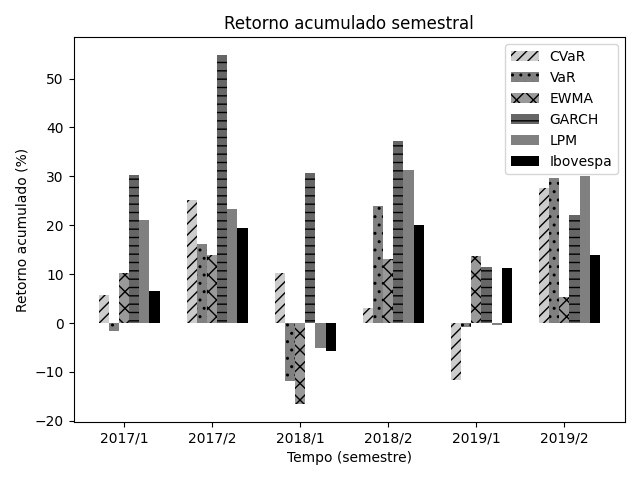
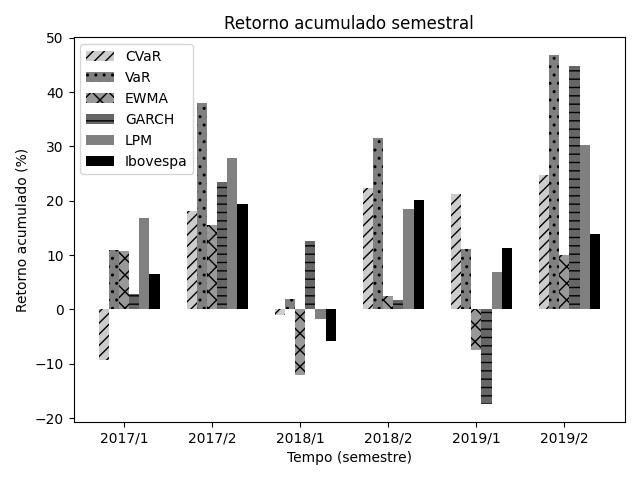
teste realizados

diff --git a/direto/nsga2.py b/direto/nsga2.py
@@ -86,6 +86,7 @@ def main():
             
             x_iteracao.sort()
             y_iteracao.sort()
+
             if primeira_execucao:
                 x_soma_execucoes = x_iteracao
                 y_soma_execucoes = y_iteracao
@@ -121,11 +122,7 @@ def main():
 
     for i in range(len(pontos_x)):
         grafico.grafico_risco_retorno(pontos_x[i], pontos_y[i], pareto_dos_riscos[i])   
-    # grafico.grafico_risco_retorno(pontos_x[0], pontos_y[0], "paretoFinalCVaR")
-    # grafico.grafico_risco_retorno(pontos_x[1], pontos_y[1], "paretoFinalVaR")
-    # grafico.grafico_risco_retorno(pontos_x[2], pontos_y[2], "paretoFinalEWMA")
-    # grafico.grafico_risco_retorno(pontos_x[3], pontos_y[3], "paretoFinalGARCH")
-    # grafico.grafico_risco_retorno(pontos_x[4], pontos_y[4], "paretoFinalLPM")
+    
     
 if __name__ == "__main__":
     main()

diff --git a/semestral/globais.py b/semestral/globais.py
@@ -1,7 +1,7 @@
 TAM_POP = 80
 CARDINALIDADE = 9
 ITERACOES = 100
-EXECUCOES = 20
+EXECUCOES = 5
 QUANTIDADE_ATIVOS = 62
 QUANTIDADE_METRICAS = 5
 PROBABILIDADE_MUTACAO = 0.1
